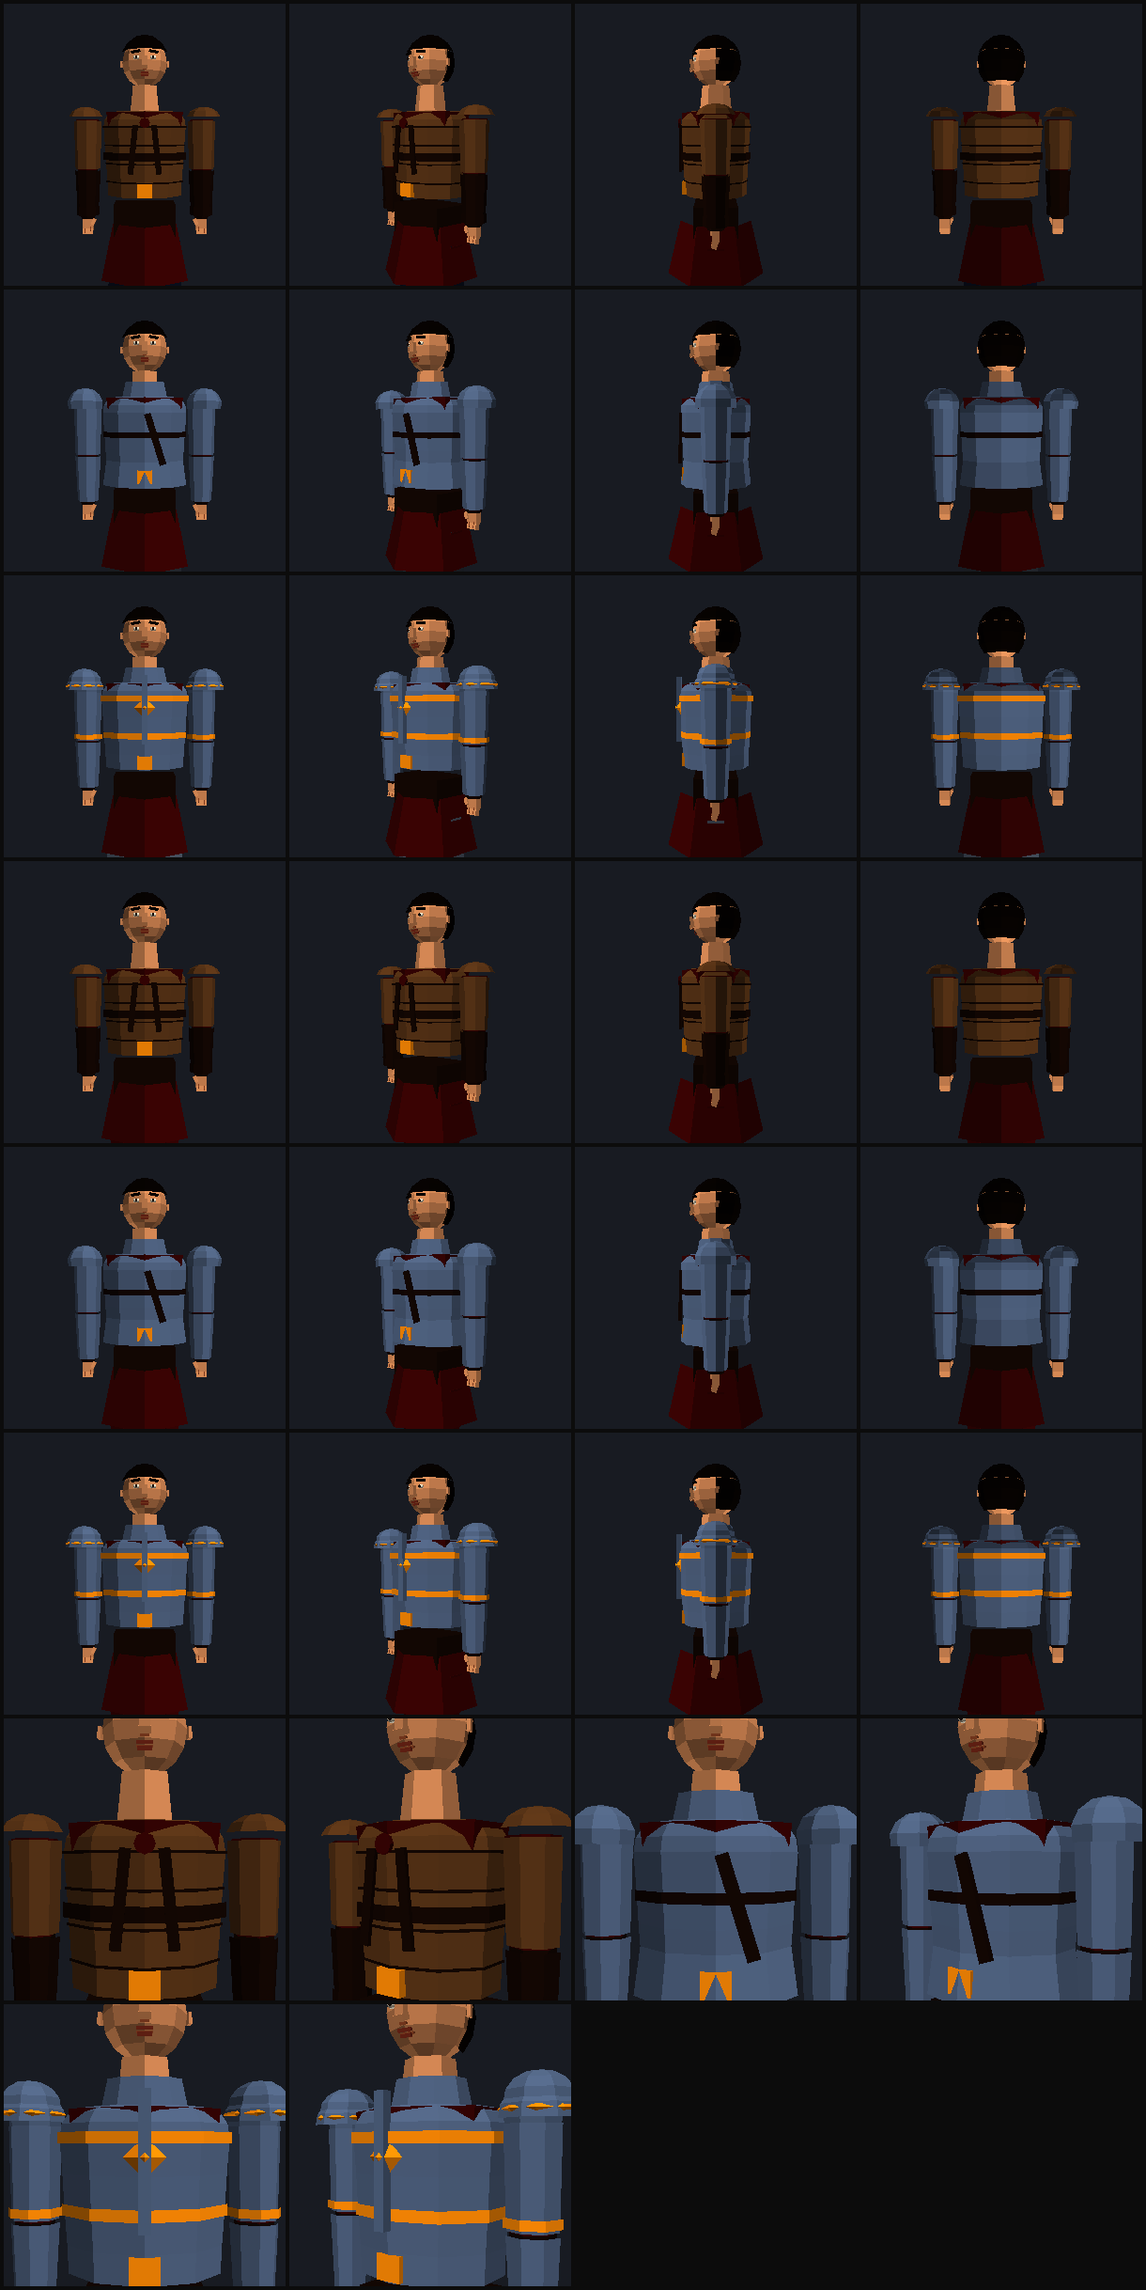
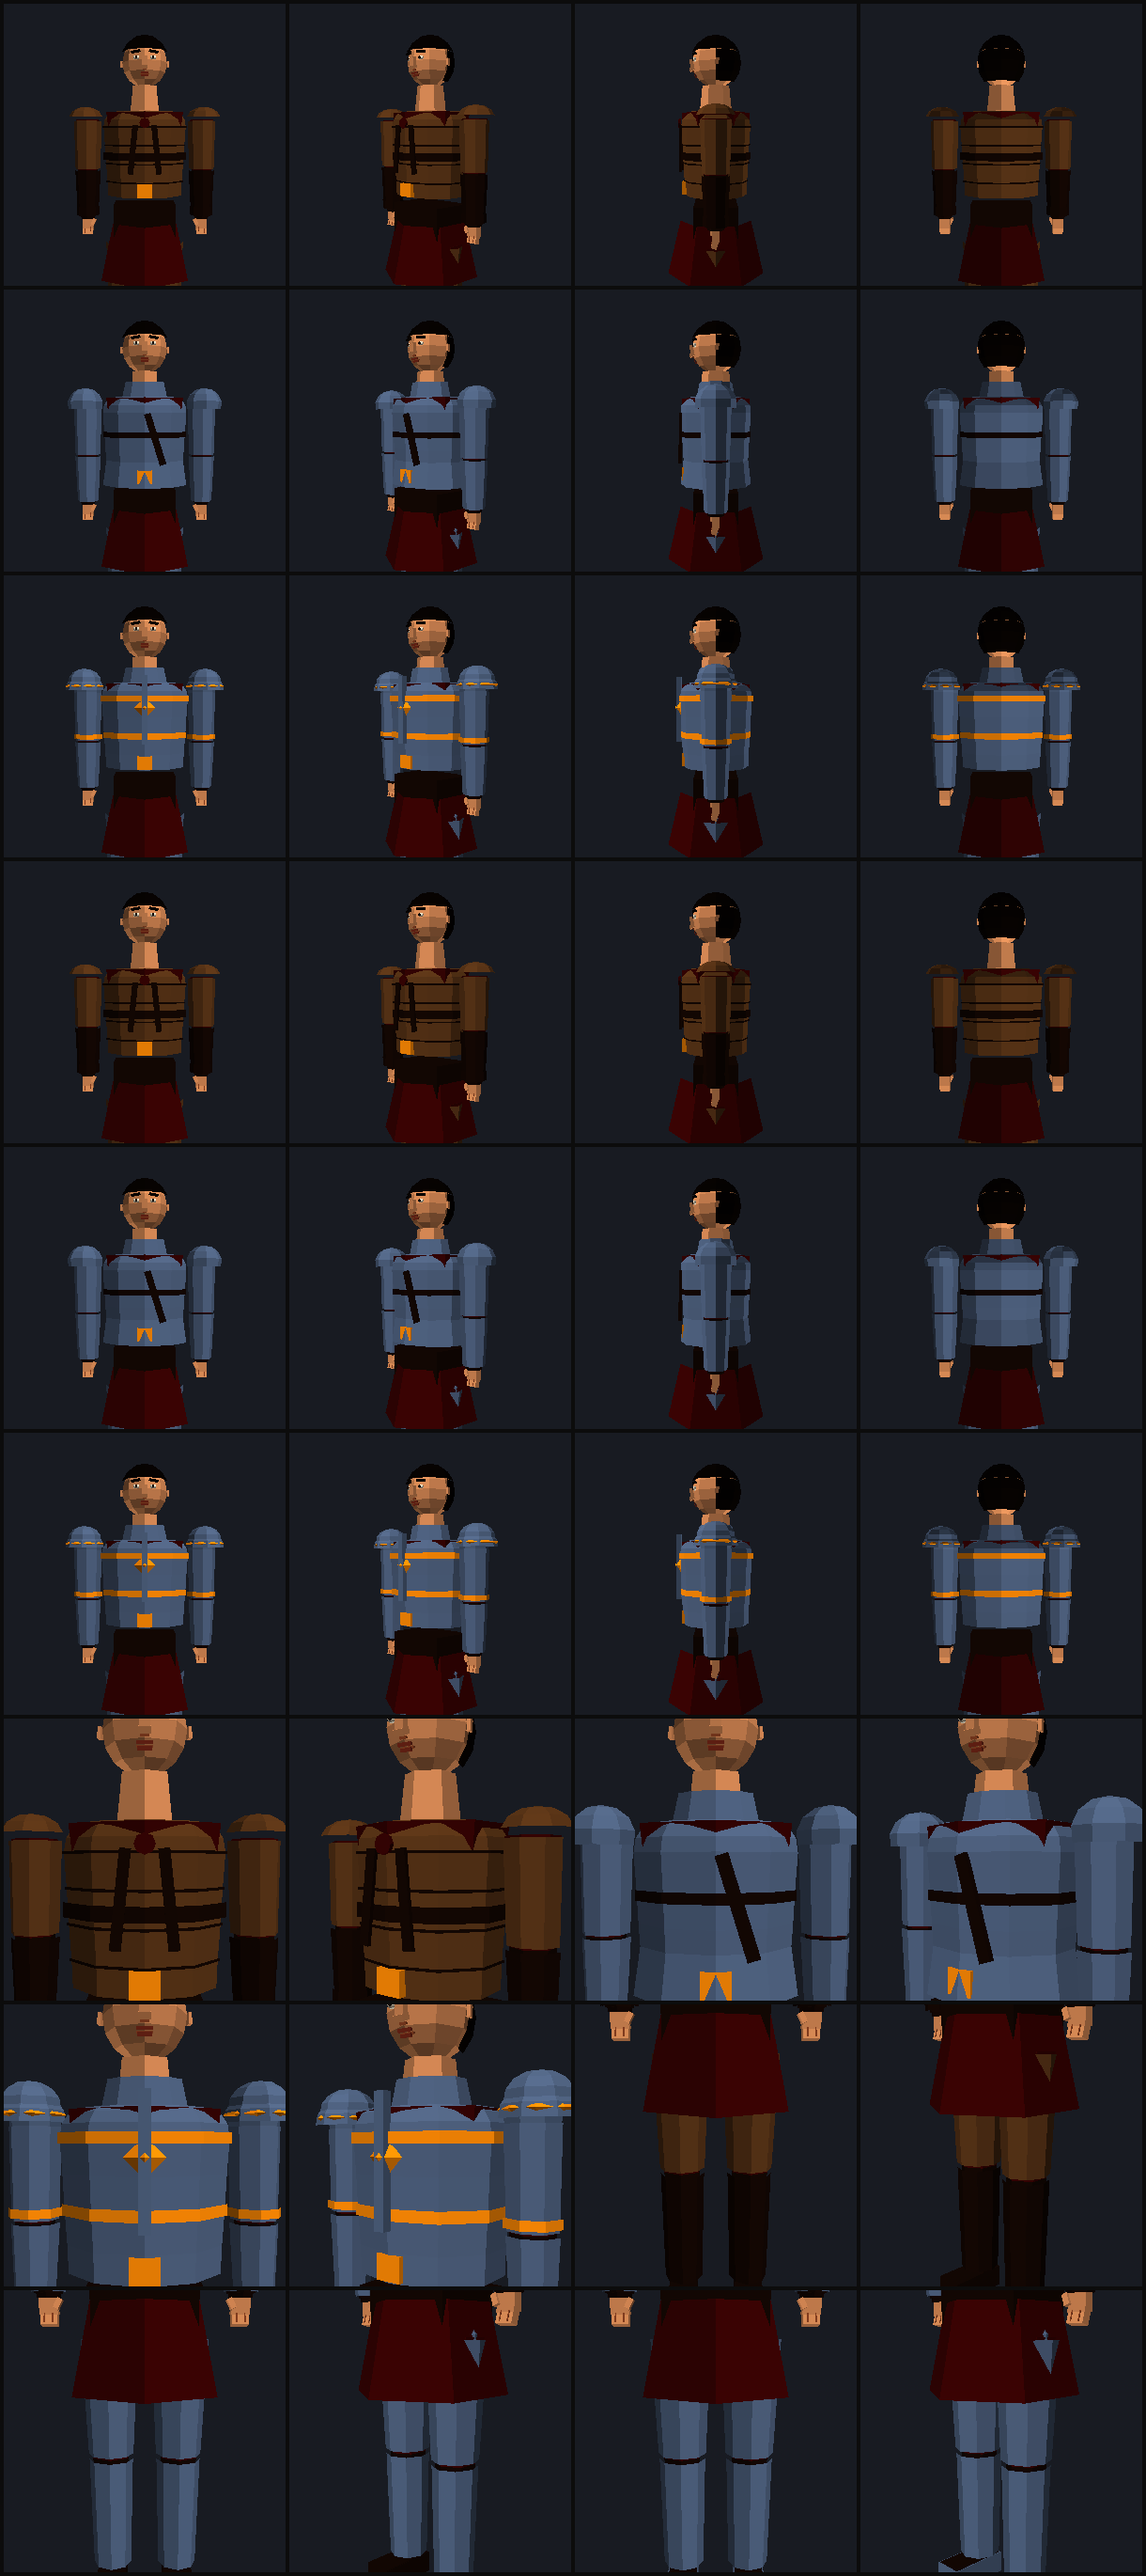
fix(rig): bacak ve ayak zırhı iki katmanda da üretiliyor (Faz 9d)
- characterRig.buildArmor: uyluk/baldır zırhı, diz kapağı, sabaton/konç
- armoryBridge SKIP_ZONES: legsUpper/legsLower/feet de bizim üreticimizde
- ayaklık yere gömülmüyor (tabanla hizalı)
- yeni: scripts/probe-armor-legs.ts (43 kontrol), render-armor 36 karo, docs §35

diff --git a/scripts/probe-armor-legs.ts b/scripts/probe-armor-legs.ts
@@ -1,0 +1,141 @@
+/**
+ * probe-armor-legs.ts — Faz 9d: asker zırhının BACAK ve AYAK bölgesi
+ *
+ *   npx tsx scripts/probe-armor-legs.ts
+ *
+ * Faz 9b'de göğüs/kollar düzeltildi. Aynı iskelet uyumsuzluğu bacaklarda da
+ * varsa: zırh bacağı örtmez, iki bacak zırhı birbirine girer, ayaklık yeri
+ * deler ya da havada durur. Ölçülenler (her kademe × iki katman):
+ *   1. Uyluk/bilek zırhı bacağı tam örtüyor mu (pay > 0),
+ *   2. Zırh bacağın içine gömülüyor mu (kesişim derinliği),
+ *   3. İki bacağın zırhı birbirine giriyor mu,
+ *   4. Ayaklık ayağı örtüyor mu ve yere değiyor mu (havada/değil).
+ */
+import * as THREE from 'three';
+import { setArmoryVisualsEnabled } from '../src/game/armoryBridge.ts';
+import {
+  createCharacterRig,
+  type ArmorTier,
+  type CharacterVisualOptions,
+} from '../src/game/characterRig.ts';
+
+let fails = 0;
+const ok = (cond: boolean, label: string, detail = '') => {
+  if (!cond) fails++;
+  console.log(`${cond ? '✓' : '✗'} ${label}${detail ? ` — ${detail}` : ''}`);
+};
+const box = (o: THREE.Object3D) => new THREE.Box3().setFromObject(o);
+const r3 = (v: number) => v.toFixed(3);
+
+const base = {
+  skinTone: '#e8be99',
+  hairColor: '#2b1b10',
+  beardColor: '#2b1b10',
+  factionColor: '#7f1d1d',
+  hasBeard: false,
+  weaponType: 'ONE_HANDED_SWORD',
+  shieldType: 'NONE',
+  helmetType: 'NONE',
+  armorTier: 'CHAINMAIL',
+  factionId: 'vlandia',
+} as unknown as CharacterVisualOptions;
+
+const TIERS: ArmorTier[] = ['LEATHER', 'CHAINMAIL', 'PLATE'];
+
+/** Bir eklemdeki zırh parçaları (kendi işaretimiz ya da armory_ sarmalayıcısı). */
+function armorIn(node: THREE.Object3D): THREE.Mesh[] {
+  const out: THREE.Mesh[] = [];
+  node.traverse((o) => {
+    const m = o as THREE.Mesh;
+    if (m.isMesh && m.userData?.limbArmor) out.push(m);
+  });
+  return out;
+}
+
+/** Eklemdeki ten/kumaş mesh'i (zırh işaretli olmayan ilk mesh). */
+function bodyIn(node: THREE.Object3D): THREE.Mesh | undefined {
+  return node.children.find((c) => (c as THREE.Mesh).isMesh && !(c as THREE.Mesh).userData.limbArmor) as
+    | THREE.Mesh
+    | undefined;
+}
+
+for (const armory of [true, false]) {
+  setArmoryVisualsEnabled(armory);
+  console.log(`\n── ${armory ? 'BannerForge (varsayılan)' : 'legacy'} katmanı ──`);
+  for (const tier of TIERS) {
+    const rig = createCharacterRig({ ...base, armorTier: tier } as CharacterVisualOptions);
+    rig.root.updateMatrixWorld(true);
+
+    for (const side of ['left', 'right'] as const) {
+      for (const [label, node] of [
+        ['uyluk', rig[`${side}Thigh` as 'leftThigh']],
+        ['baldır', rig[`${side}Shin` as 'leftShin']],
+      ] as const) {
+        const parts = armorIn(node as THREE.Object3D);
+        const bodyMesh = bodyIn(node as THREE.Object3D);
+        if (!bodyMesh) continue;
+        ok(parts.length > 0, `${tier} · ${side} ${label}: zırh parçası var`, `${parts.length}`);
+        if (!parts.length) continue;
+        const bodyBox = box(bodyMesh);
+        const armorBox = new THREE.Box3();
+        for (const p of parts) armorBox.union(box(p));
+        // Örtme: zırh her eksende ten mesh'inden büyük/eşit olmalı.
+        const sA = armorBox.getSize(new THREE.Vector3());
+        const sB = bodyBox.getSize(new THREE.Vector3());
+        const cover = Math.min(sA.x - sB.x, sA.z - sB.z);
+        ok(cover >= -0.002, `${tier} · ${side} ${label}: zırh uzvu örtüyor`, `pay ${r3(cover)} m`);
+        // Uzuvdan kaymamış olmalı: zırh, uzvun boyunu kapsamalı (kayarsa
+        // zırh dizin altına düşer ya da kalçaya çıkar).
+        ok(
+          armorBox.min.y <= bodyBox.min.y + 0.03 && armorBox.max.y >= bodyBox.max.y - 0.03,
+          `${tier} · ${side} ${label}: zırh uzvun boyunca oturuyor`,
+          `zırh ${r3(armorBox.min.y)}..${r3(armorBox.max.y)} / uzuv ${r3(bodyBox.min.y)}..${r3(bodyBox.max.y)}`,
+        );
+      }
+    }
+
+    // İki bacak zırhı birbirine giriyor mu?
+    const legBoxes: Array<{ side: string; b: THREE.Box3 }> = [];
+    for (const side of ['left', 'right'] as const) {
+      for (const node of [rig[`${side}Thigh` as 'leftThigh'], rig[`${side}Shin` as 'leftShin']]) {
+        for (const p of armorIn(node as THREE.Object3D)) legBoxes.push({ side, b: box(p) });
+      }
+    }
+    let cross = 0;
+    for (let i = 0; i < legBoxes.length; i++) {
+      for (let j = i + 1; j < legBoxes.length; j++) {
+        if (legBoxes[i].side === legBoxes[j].side) continue;
+        if (!legBoxes[i].b.intersectsBox(legBoxes[j].b)) continue;
+        const s = legBoxes[i].b.clone().intersect(legBoxes[j].b).getSize(new THREE.Vector3());
+        cross = Math.max(cross, Math.min(s.x, s.y, s.z));
+      }
+    }
+    ok(cross < 0.01, `${tier}: iki bacağın zırhı birbirine girmiyor`, `giriş ${(cross * 1000).toFixed(0)} mm`);
+
+    // Ayaklık: ayağı örtüyor mu, yere basıyor mu?
+    for (const side of ['left', 'right'] as const) {
+      const foot = rig[`${side}Foot` as 'leftFoot'] as THREE.Object3D;
+      const parts = armorIn(foot);
+      const bodyMesh = bodyIn(foot);
+      if (!bodyMesh) continue;
+      const fb = box(bodyMesh);
+      if (parts.length) {
+        const ab = new THREE.Box3();
+        for (const p of parts) ab.union(box(p));
+        const covers = ab.min.y <= fb.min.y + 0.002 && ab.max.y >= fb.max.y - 0.004;
+        ok(covers, `${tier} · ${side} ayaklık ayağı örtüyor`, `ayak ${r3(fb.min.y)}..${r3(fb.max.y)} / zırh ${r3(ab.min.y)}..${r3(ab.max.y)}`);
+        // Ayaklık, ayağın tabanıyla aynı hizada olmalı (ne havada ne gömülü).
+        ok(
+          ab.min.y >= fb.min.y - 0.006 && ab.min.y <= fb.min.y + 0.02,
+          `${tier} · ${side} ayaklık ayağın tabanıyla hizalı`,
+          `zırh ${r3(ab.min.y)} / ayak ${r3(fb.min.y)}`,
+        );
+      } else {
+        ok(tier === 'LEATHER', `${tier} · ${side}: ayaklık var`, parts.length ? '' : 'yok (deri: çizme ten)');
+      }
+    }
+  }
+}
+
+console.log(fails === 0 ? '\n✅ BACAK/AYAK ZIRHI DOĞRU' : `\n❌ ${fails} hata`);
+process.exit(fails === 0 ? 0 : 1);

diff --git a/src/game/characterRig.ts b/src/game/characterRig.ts
@@ -823,6 +823,7 @@ function buildArmor(rig: CharacterRig, tier: ArmorTier) {
     );
     sleeve.position.y = -RIG_DIMENSIONS.upperArm / 2;
     sleeve.userData.armArmor = true;
+    sleeve.userData.limbArmor = true;
     upper.add(sleeve);
 
     const bracer = mesh(
@@ -832,6 +833,7 @@ function buildArmor(rig: CharacterRig, tier: ArmorTier) {
     );
     bracer.position.y = -RIG_DIMENSIONS.forearm / 2;
     bracer.userData.armArmor = true;
+    bracer.userData.limbArmor = true;
     fore.add(bracer);
 
     // Dirsek kapağı (postacı/levha).
@@ -851,6 +853,70 @@ function buildArmor(rig: CharacterRig, tier: ArmorTier) {
       trim.position.y = -RIG_DIMENSIONS.upperArm + 0.028;
       upper.add(trim);
       void side;
+    }
+  }
+
+  /* ── Bacak zırhı (uyluk + baldır + ayaklık) ──
+     BannerForge bacak parçaları gövdeye göre daha iyi oturuyordu ama iki
+     sorun vardı: (a) legacy katmanında hiç bacak zırhı yoktu (çıplak bacak),
+     (b) ayaklık yere 1.6 cm gömülüyordu. Artık iki katmanda da buradan gelir. */
+  const legBody = { thighR: 0.09, thighRb: 0.072, shinR: 0.071, shinRb: 0.062 };
+  for (const side of ['left', 'right'] as const) {
+    const thigh = rig[`${side}Thigh`];
+    const shin = rig[`${side}Shin`];
+    const foot = rig[`${side}Foot`];
+
+    const thighMat = tier === 'LEATHER' ? padded : tier === 'CHAINMAIL' ? metal : metal;
+    const thighPad = tier === 'PLATE' ? 0.013 : 0.008;
+
+    // Uyluk: 8 kenarlı, gövde silindirinin üstünde.
+    const thighArmor = mesh(
+      new THREE.CylinderGeometry(legBody.thighR + thighPad, legBody.thighRb + thighPad, 0.4, 8, 1, true),
+      thighMat,
+      false,
+    );
+    thighArmor.position.y = -0.21;
+    thighArmor.scale.z = 1.06;
+    thighArmor.userData.limbArmor = true;
+    thigh.add(thighArmor);
+
+    // Baldır: tozluk / greave.
+    const shinPad = tier === 'PLATE' ? 0.011 : 0.007;
+    const shinArmor = mesh(
+      new THREE.CylinderGeometry(legBody.shinR + shinPad, legBody.shinRb + shinPad, 0.4, 8, 1, true),
+      tier === 'LEATHER' ? leather : metal,
+      false,
+    );
+    shinArmor.position.y = -0.21;
+    shinArmor.scale.z = 1.06;
+    shinArmor.userData.limbArmor = true;
+    shin.add(shinArmor);
+
+    // Diz kapağı (levha/postacı).
+    if (tier !== 'LEATHER') {
+      const knee = mesh(new THREE.SphereGeometry(0.082, 8, 4, 0, Math.PI * 2, 0, Math.PI * 0.55), metal, false);
+      knee.scale.set(1, 0.85, 1.05);
+      knee.position.y = -0.01;
+      knee.userData.limbArmor = true;
+      thigh.add(knee);
+    }
+
+    // Ayaklık: ayakkabının üstüne oturur, yere gömülmez.
+    if (tier === 'PLATE') {
+      const sabaton = mesh(new THREE.BoxGeometry(0.108, 0.082, 0.228), metal, false);
+      sabaton.position.set(0, -0.042, 0.05);
+      sabaton.userData.limbArmor = true;
+      foot.add(sabaton);
+      const toe = mesh(new THREE.BoxGeometry(0.092, 0.03, 0.05), gold, false);
+      toe.position.set(0, -0.062, 0.145);
+      toe.userData.limbArmor = true;
+      foot.add(toe);
+    } else if (tier === 'CHAINMAIL') {
+      // Postacı çizmesi: ayağın üstüne oturan kalın deri kap.
+      const boot = mesh(new THREE.BoxGeometry(0.104, 0.08, 0.222), leather, false);
+      boot.position.set(0, -0.042, 0.05);
+      boot.userData.limbArmor = true;
+      foot.add(boot);
     }
   }
 

diff --git a/scripts/render-armor.ts b/scripts/render-armor.ts
@@ -63,6 +63,14 @@ for (const tier of TIERS) {
   tiles.push(shot(rig, Math.PI / 5, 1.5, 1.35, 1.5));
 }
 
+/* Bacak/ayak yakın planı (Faz 9d) — tam boy, dizden aşağı odaklı */
+for (const tier of TIERS) {
+  const rig = createCharacterRig({ ...base, armorTier: tier } as CharacterVisualOptions);
+  rig.root.updateMatrixWorld(true);
+  tiles.push(shot(rig, 0, 0.9, 1.6, 0.55));
+  tiles.push(shot(rig, Math.PI / 4, 0.9, 1.6, 0.55));
+}
+
 // 4 kolonlu ızgara: 6 satır × 4
 const sheet = montage(tiles, 4, 4);
 writePng('docs/renders/armor-chest.png', sheet);

diff --git a/src/game/armoryBridge.ts b/src/game/armoryBridge.ts
@@ -468,6 +468,11 @@ export function applyArmoryArmor(
     'armsUpper',
     'armsLower',
     'hands',
+    // Faz 9d: bacak/ayak parçaları da bizim üreticimizde (legacy katmanıyla
+    // tutarlılık + ayaklığın yere gömülmesi sorunu).
+    'legsUpper',
+    'legsLower',
+    'feet',
   ]);
   for (const zone of Object.keys(set.zones) as (keyof typeof set.zones)[]) {
     if (SKIP_ZONES.has(zone)) continue;

diff --git a/docs/ANSIKLOPEDI_VE_UI_PLANI.md b/docs/ANSIKLOPEDI_VE_UI_PLANI.md
@@ -1447,3 +1447,37 @@ iniyor — sabit yükseklikli yaka orada da ağzı örtüyordu.
   zırh tepesi çenenin ≥ 1 cm altında (Δ = −0.02 m).
 - `scripts/render-face.ts` → `docs/renders/face-cover.png`; `render-armor.ts` →
   `docs/renders/armor-chest.png` yenilendi. `verify:all` 21 paket ✅, `vite build` ✅.
+
+## 35. FAZ 9d — BACAK VE AYAK ZIRHI (TAMAMLANDI ✅)
+
+Göğüs (9b) ve yüz (9c) düzeltmelerinin devamı: aynı iskelet uyumsuzluğunun
+bacaklarda da olup olmadığı ölçüldü (`scripts/probe-armor-legs.ts`).
+
+### Bulgular
+
+| Sorun | Önce |
+|---|---|
+| Legacy katmanında bacak zırhı | **hiç yok** (çıplak bacak, deri çizme yalnız ten rengi) |
+| BannerForge ayaklığı | yere **16 mm gömülü** (y −0.056) |
+| BannerForge ayak parçaları | `armory_footL` hem `leftShin` hem `leftThigh` altında **iki kez** sayılıyordu |
+
+Bacakların kendisi (uyluk/baldır) BannerForge'da iyi oturuyordu — asıl sorun
+katman tutarsızlığı ve ayaklığın yere gömülmesiydi.
+
+### Çözüm
+
+`characterRig.buildArmor` artık bacak zırhını da üretiyor (iki katmanda aynı):
+- **Uyluk**: 8 kenarlı zırh silindiri (deri +8 mm, postacı +8 mm, levha +13 mm pay)
+- **Baldır**: tozluk/greave (+7 / +11 mm), levha ve postacıda **diz kapağı**
+- **Ayak**: levhada sabaton + altın burun, postacıda kalın deri konç;
+  hepsi ayağın tabanıyla **hizalı** (ne havada ne gömülü)
+- `armsUpper/armsLower/hands` gibi `legsUpper/legsLower/feet` bölgeleri de
+  BannerForge'dan alınmıyor (`SKIP_ZONES`), böylece iki katman aynı görünüyor.
+
+### Doğrulama
+
+`probe-armor-legs.ts` — **43 kontrol** (3 kademe × 2 katman): zırh parçası var,
+uzvu örtüyor (pay 0.043–0.050 m), uzvun boyunca oturuyor (kayma yok), iki bacağın
+zırhı kesişmiyor (0 mm), ayaklık ayağı örtüyor ve tabanla hizalı.
+`render-armor.ts` 36 karoya çıktı (6 satır gövde + 6 karo bacak yakın planı).
+`verify:all` 22 paket ✅, `vite build` ✅.
